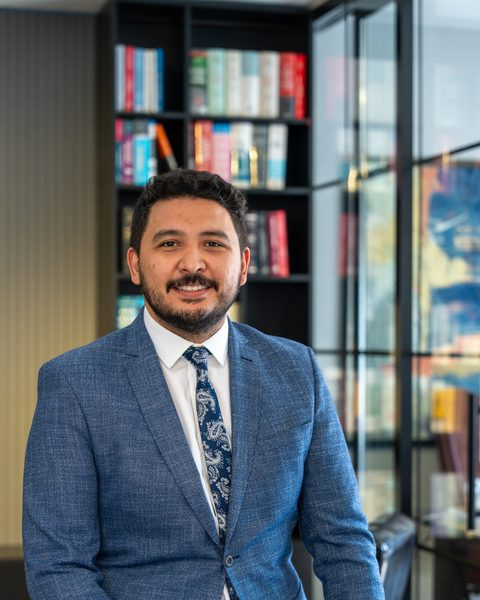
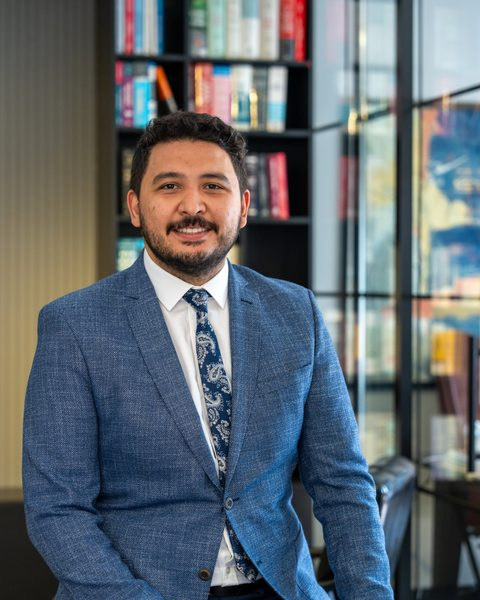
Ekip fotoğrafları aynı hizaya getirildi
Fırat Talha Özdemir fotoğrafı alttan, İbrahim Kurban fotoğrafı üstten kırpılarak yüzler aynı yüksekliğe alındı.

Claude-Session: https://claude.ai/code/session_017xcZEhQjqUHanvqqV7ehof

diff --git a/assets/site.css b/assets/site.css
@@ -139,7 +139,7 @@ section.block{padding-block:clamp(56px,8vw,104px)}
 .team{display:grid;grid-template-columns:repeat(3,minmax(0,1fr));gap:clamp(20px,3vw,40px)}
 .person .ph{aspect-ratio:4/5;background:linear-gradient(160deg,var(--forest),var(--deep));display:grid;place-items:center;max-width:100%}
 .person picture.ph{display:block;overflow:hidden;background:var(--sage)}
-.person picture.ph img{width:100%;height:100%;object-fit:cover;object-position:50% 20%}
+.person picture.ph img{width:100%;height:100%;object-fit:cover;object-position:50% 0}
 .person .ph span{font-family:var(--serif);font-size:3.2rem;color:var(--brass);opacity:.75;letter-spacing:.04em}
 .person h3{font-family:var(--serif);font-weight:500;font-size:1.4rem;margin:18px 0 2px}
 .person .role{color:var(--ink-2);font-size:.95rem;margin:0}

diff --git a/index.html b/index.html
@@ -17,7 +17,7 @@
 <link rel="preconnect" href="https://fonts.googleapis.com">
 <link rel="preconnect" href="https://fonts.gstatic.com" crossorigin>
 <link rel="stylesheet" href="https://fonts.googleapis.com/css2?family=Public+Sans:wght@400;500;600&family=Spectral:ital,wght@0,500;0,600;1,500&display=swap">
-<link rel="stylesheet" href="./assets/site.css?v=1793376906">
+<link rel="stylesheet" href="./assets/site.css?v=1793377108">
 <script type="application/ld+json">
 {"@context":"https://schema.org","@type":"LegalService","name":"IF PARTNERS HUKUK","url":"https://ifhukuk.com/","telephone":"+905380408272","email":"info@ifhukuk.com",
 "address":{"@type":"PostalAddress","streetAddress":"Uzunçayır Cad. No:43 D1 Blok D:26","addressLocality":"Kadıköy","addressRegion":"İstanbul","addressCountry":"TR"},

diff --git a/404.html b/404.html
@@ -17,7 +17,7 @@
 <link rel="preconnect" href="https://fonts.googleapis.com">
 <link rel="preconnect" href="https://fonts.gstatic.com" crossorigin>
 <link rel="stylesheet" href="https://fonts.googleapis.com/css2?family=Public+Sans:wght@400;500;600&family=Spectral:ital,wght@0,500;0,600;1,500&display=swap">
-<link rel="stylesheet" href="/ifhukuk-web/assets/site.css?v=1793376906">
+<link rel="stylesheet" href="/ifhukuk-web/assets/site.css?v=1793377108">
 
 </head>
 <body>

diff --git a/blog/adli-tatil-ve-surelere-etkisi/index.html b/blog/adli-tatil-ve-surelere-etkisi/index.html
@@ -17,7 +17,7 @@
 <link rel="preconnect" href="https://fonts.googleapis.com">
 <link rel="preconnect" href="https://fonts.gstatic.com" crossorigin>
 <link rel="stylesheet" href="https://fonts.googleapis.com/css2?family=Public+Sans:wght@400;500;600&family=Spectral:ital,wght@0,500;0,600;1,500&display=swap">
-<link rel="stylesheet" href="../../assets/site.css?v=1793376906">
+<link rel="stylesheet" href="../../assets/site.css?v=1793377108">
 
 </head>
 <body>

diff --git a/calisma-alanlari/ceza-hukuku/index.html b/calisma-alanlari/ceza-hukuku/index.html
@@ -17,7 +17,7 @@
 <link rel="preconnect" href="https://fonts.googleapis.com">
 <link rel="preconnect" href="https://fonts.gstatic.com" crossorigin>
 <link rel="stylesheet" href="https://fonts.googleapis.com/css2?family=Public+Sans:wght@400;500;600&family=Spectral:ital,wght@0,500;0,600;1,500&display=swap">
-<link rel="stylesheet" href="../../assets/site.css?v=1793376906">
+<link rel="stylesheet" href="../../assets/site.css?v=1793377108">
 
 </head>
 <body>

diff --git a/calisma-alanlari/gayrimenkul-hukuku/index.html b/calisma-alanlari/gayrimenkul-hukuku/index.html
@@ -17,7 +17,7 @@
 <link rel="preconnect" href="https://fonts.googleapis.com">
 <link rel="preconnect" href="https://fonts.gstatic.com" crossorigin>
 <link rel="stylesheet" href="https://fonts.googleapis.com/css2?family=Public+Sans:wght@400;500;600&family=Spectral:ital,wght@0,500;0,600;1,500&display=swap">
-<link rel="stylesheet" href="../../assets/site.css?v=1793376906">
+<link rel="stylesheet" href="../../assets/site.css?v=1793377108">
 
 </head>
 <body>

diff --git a/calisma-alanlari/icra-ve-iflas-hukuku/index.html b/calisma-alanlari/icra-ve-iflas-hukuku/index.html
@@ -17,7 +17,7 @@
 <link rel="preconnect" href="https://fonts.googleapis.com">
 <link rel="preconnect" href="https://fonts.gstatic.com" crossorigin>
 <link rel="stylesheet" href="https://fonts.googleapis.com/css2?family=Public+Sans:wght@400;500;600&family=Spectral:ital,wght@0,500;0,600;1,500&display=swap">
-<link rel="stylesheet" href="../../assets/site.css?v=1793376906">
+<link rel="stylesheet" href="../../assets/site.css?v=1793377108">
 
 </head>
 <body>

diff --git a/calisma-alanlari/saglik-hukuku/index.html b/calisma-alanlari/saglik-hukuku/index.html
@@ -17,7 +17,7 @@
 <link rel="preconnect" href="https://fonts.googleapis.com">
 <link rel="preconnect" href="https://fonts.gstatic.com" crossorigin>
 <link rel="stylesheet" href="https://fonts.googleapis.com/css2?family=Public+Sans:wght@400;500;600&family=Spectral:ital,wght@0,500;0,600;1,500&display=swap">
-<link rel="stylesheet" href="../../assets/site.css?v=1793376906">
+<link rel="stylesheet" href="../../assets/site.css?v=1793377108">
 
 </head>
 <body>

diff --git a/calisma-alanlari/sigorta-hukuku/index.html b/calisma-alanlari/sigorta-hukuku/index.html
@@ -17,7 +17,7 @@
 <link rel="preconnect" href="https://fonts.googleapis.com">
 <link rel="preconnect" href="https://fonts.gstatic.com" crossorigin>
 <link rel="stylesheet" href="https://fonts.googleapis.com/css2?family=Public+Sans:wght@400;500;600&family=Spectral:ital,wght@0,500;0,600;1,500&display=swap">
-<link rel="stylesheet" href="../../assets/site.css?v=1793376906">
+<link rel="stylesheet" href="../../assets/site.css?v=1793377108">
 
 </head>
 <body>

diff --git a/calisma-alanlari/sirketler-ve-ticaret-hukuku/index.html b/calisma-alanlari/sirketler-ve-ticaret-hukuku/index.html
@@ -17,7 +17,7 @@
 <link rel="preconnect" href="https://fonts.googleapis.com">
 <link rel="preconnect" href="https://fonts.gstatic.com" crossorigin>
 <link rel="stylesheet" href="https://fonts.googleapis.com/css2?family=Public+Sans:wght@400;500;600&family=Spectral:ital,wght@0,500;0,600;1,500&display=swap">
-<link rel="stylesheet" href="../../assets/site.css?v=1793376906">
+<link rel="stylesheet" href="../../assets/site.css?v=1793377108">
 
 </head>
 <body>

diff --git a/calisma-alanlari/yabancilar-hukuku/index.html b/calisma-alanlari/yabancilar-hukuku/index.html
@@ -17,7 +17,7 @@
 <link rel="preconnect" href="https://fonts.googleapis.com">
 <link rel="preconnect" href="https://fonts.gstatic.com" crossorigin>
 <link rel="stylesheet" href="https://fonts.googleapis.com/css2?family=Public+Sans:wght@400;500;600&family=Spectral:ital,wght@0,500;0,600;1,500&display=swap">
-<link rel="stylesheet" href="../../assets/site.css?v=1793376906">
+<link rel="stylesheet" href="../../assets/site.css?v=1793377108">
 
 </head>
 <body>

diff --git a/blog.html b/blog.html
@@ -17,7 +17,7 @@
 <link rel="preconnect" href="https://fonts.googleapis.com">
 <link rel="preconnect" href="https://fonts.gstatic.com" crossorigin>
 <link rel="stylesheet" href="https://fonts.googleapis.com/css2?family=Public+Sans:wght@400;500;600&family=Spectral:ital,wght@0,500;0,600;1,500&display=swap">
-<link rel="stylesheet" href="./assets/site.css?v=1793376906">
+<link rel="stylesheet" href="./assets/site.css?v=1793377108">
 
 </head>
 <body>
